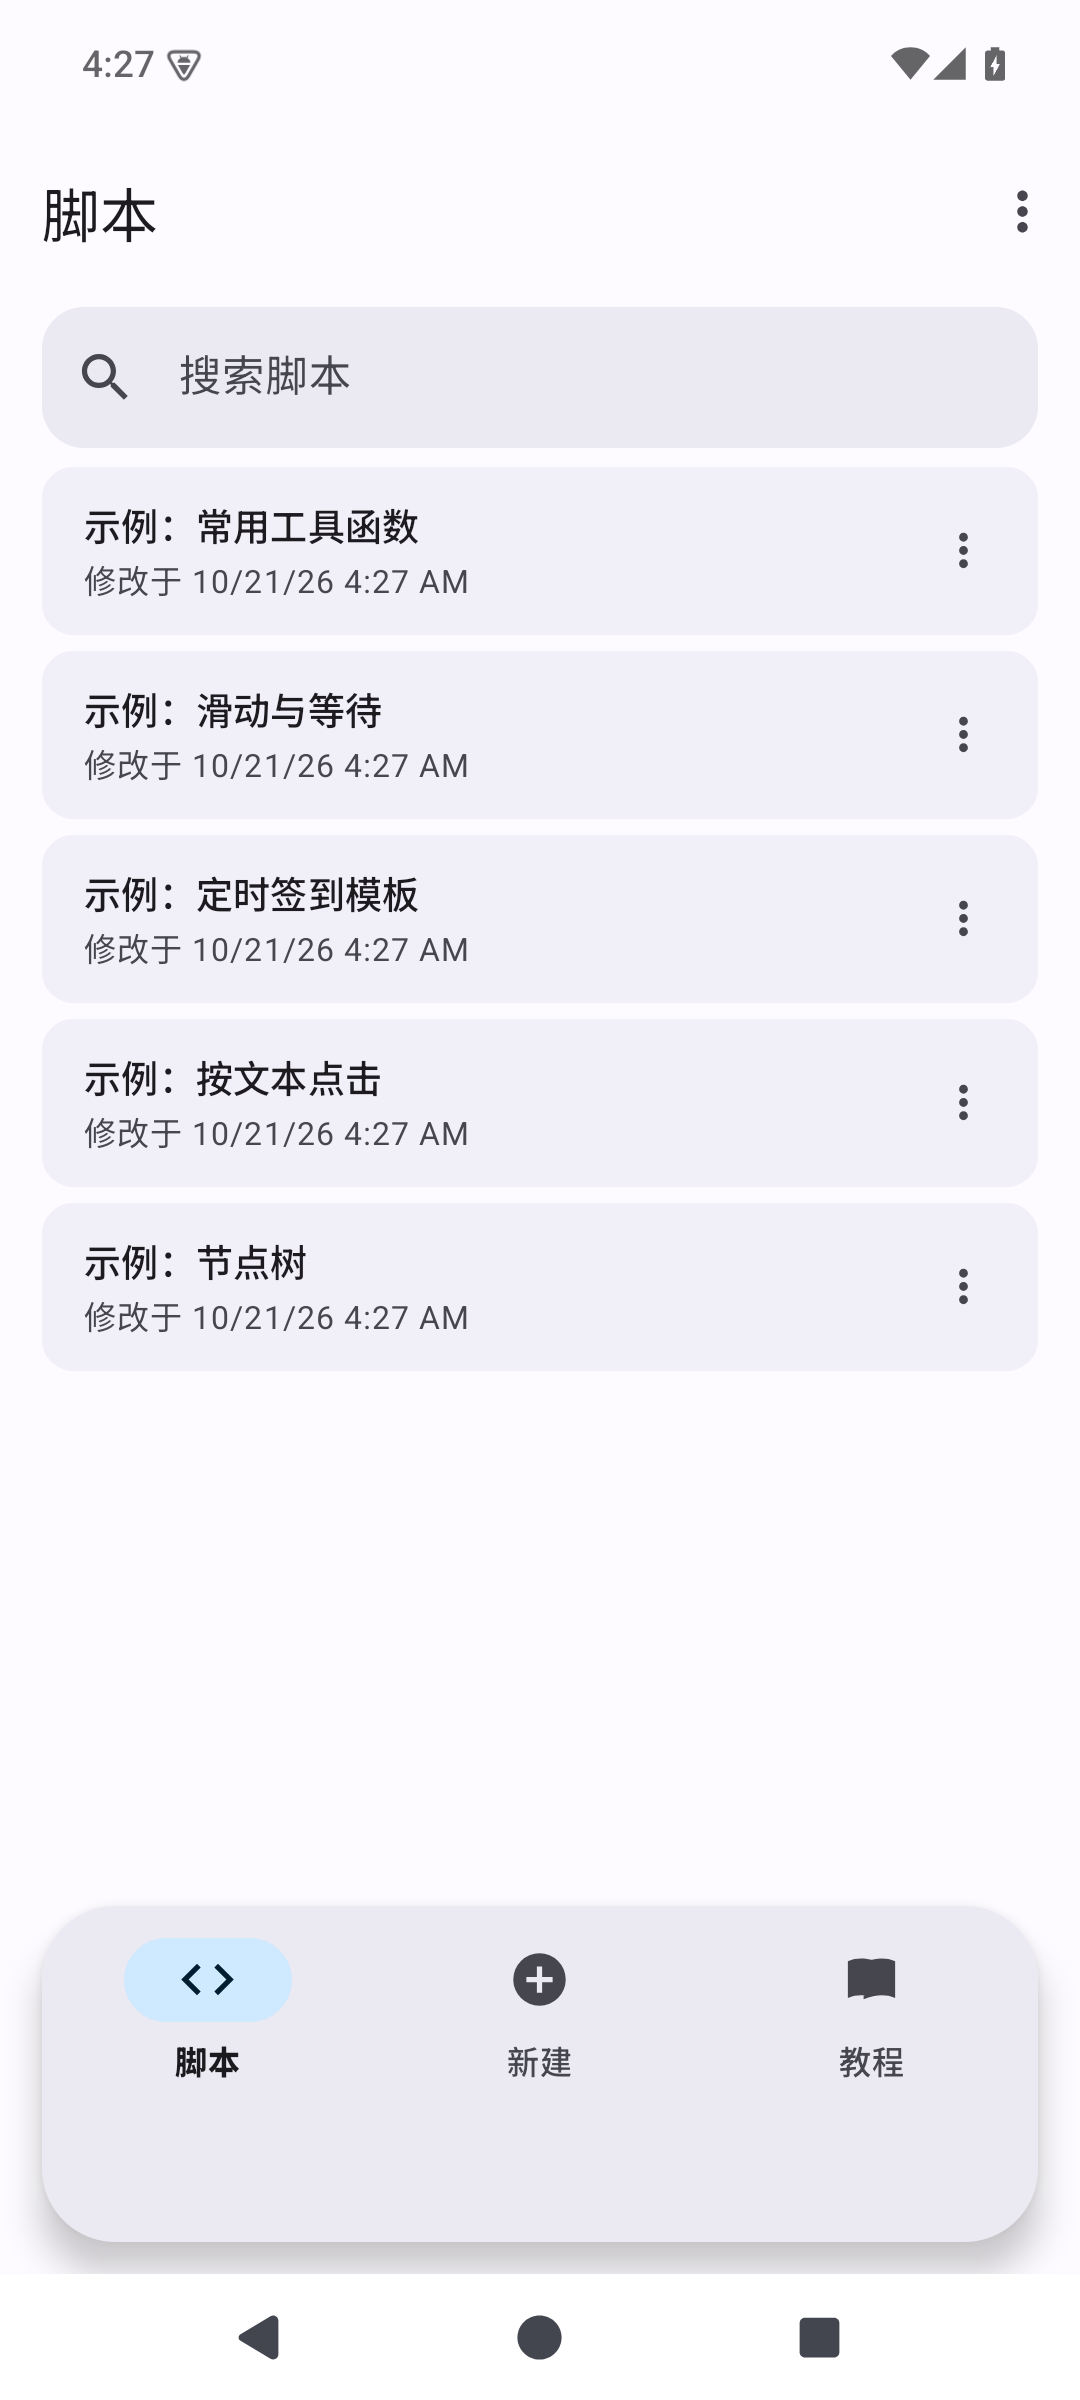
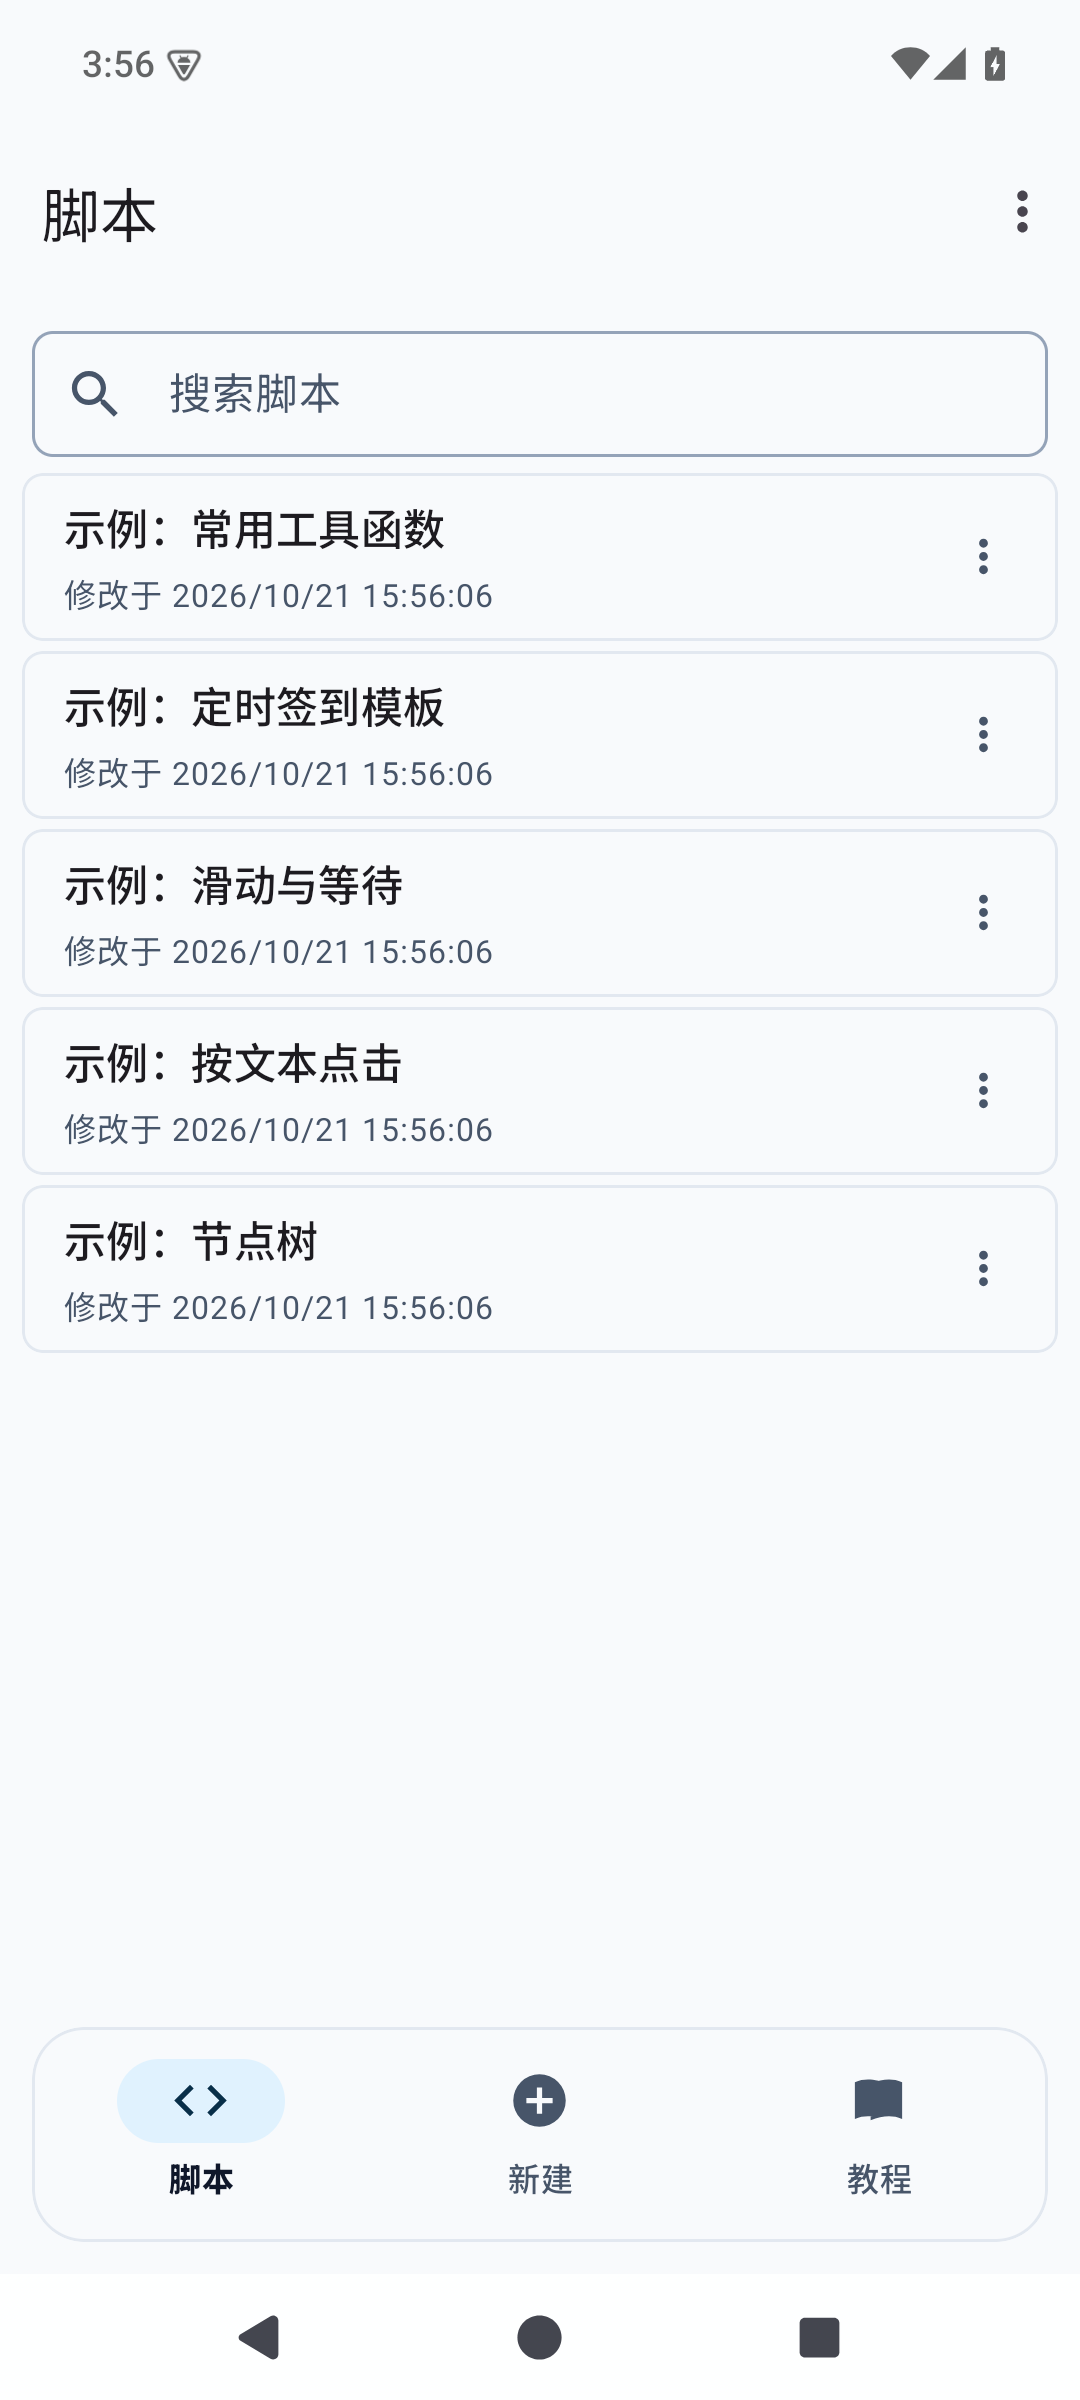
上线开发者工具风主题：蓝色强调、描边卡片与紧凑布局

diff --git a/app/src/main/java/com/microauto/ui/EditorActivity.kt b/app/src/main/java/com/microauto/ui/EditorActivity.kt
@@ -320,13 +320,19 @@ class EditorActivity : AppCompatActivity() {
                 LinearLayout.LayoutParams.MATCH_PARENT,
                 LinearLayout.LayoutParams.WRAP_CONTENT
             ).apply { topMargin = dp(8) }
-            radius = dp(12).toFloat()
+            radius = dp(8).toFloat()
             cardElevation = 0f
-            strokeWidth = 0
+            strokeWidth = dp(1)
+            setStrokeColor(
+                MaterialColors.getColor(
+                    binding.root,
+                    com.google.android.material.R.attr.colorOutlineVariant
+                )
+            )
             setCardBackgroundColor(
                 MaterialColors.getColor(
                     binding.root,
-                    com.google.android.material.R.attr.colorSurfaceContainer
+                    com.google.android.material.R.attr.colorSurface
                 )
             )
         }
@@ -448,7 +454,7 @@ class EditorActivity : AppCompatActivity() {
     private fun expandEditorToFillPage() {
         val lineHeight = binding.scriptEditor.lineHeight
         if (lineHeight <= 0) return
-        val chrome = dp(32 + 24 + 8)
+        val chrome = dp(24 + 24 + 8)
         val lines = ((binding.editorScroll.height - chrome) / lineHeight)
             .coerceIn(20, 32)
         binding.scriptEditor.minLines = lines
